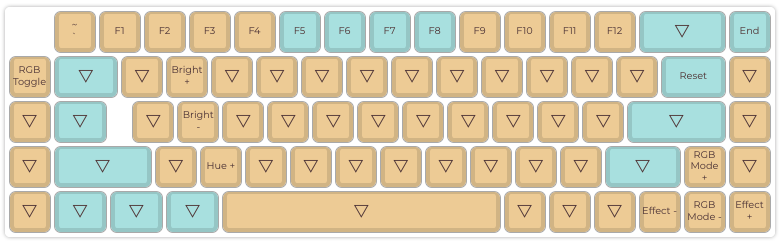
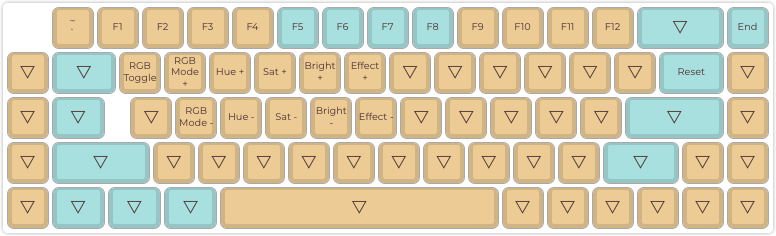
Update keymap

diff --git a/nibble/keymaps/oled_status/keymap.c b/nibble/keymaps/oled_status/keymap.c
@@ -35,11 +35,11 @@ const uint16_t PROGMEM keymaps[][MATRIX_ROWS][MATRIX_COLS] = {
         KC_F16, KC_LCTL, KC_LGUI, KC_LALT,                   KC_SPC,                    MO(_FN), KC_RALT, KC_RCTL, KC_LEFT,          KC_DOWN, KC_RGHT
     ),
     [_FN] = LAYOUT_ansi(
-                KC_GRV,   KC_F1,   KC_F2,   KC_F3,   KC_F4,   KC_F5,   KC_F6,   KC_F7,   KC_F8,   KC_F9,   KC_F10,  KC_F11,  KC_F12,   _______,  KC_END,
-        RGB_TOG, _______, RGB_VAI, _______, _______, _______, _______, _______, _______, _______, _______, _______, _______, _______,    RESET, _______,
-        _______, _______, RGB_VAD, _______, _______, _______, _______, _______, _______, _______, _______, _______, _______,           _______, _______,
-        _______, _______, RGB_HUI, _______, _______, _______, _______, _______, _______, _______, _______, _______, _______,           RGB_MOD, _______,
-        _______, _______, _______, _______,                   _______,                   _______, _______, _______, RGB_SAD,          RGB_RMOD, RGB_SAI
+                KC_GRV,   KC_F1,      KC_F2,   KC_F3,   KC_F4,   KC_F5,   KC_F6,   KC_F7,   KC_F8,   KC_F9,   KC_F10,  KC_F11, KC_F12, _______,  KC_END,
+        _______, _______, RGB_TOG,  RGB_MOD, RGB_HUI, RGB_SAI, RGB_VAI, RGB_SPI, _______, _______, _______, _______, _______, _______,   RESET, _______,
+        _______, _______, _______, RGB_RMOD, RGB_HUD, RGB_SAD, RGB_VAD, RGB_SPD, _______, _______, _______, _______, _______,          _______, _______,
+        _______, _______, _______,  _______, _______, _______, _______, _______, _______, _______, _______, _______, _______,          _______, _______,
+        _______, _______, _______,  _______,                   _______,                   _______, _______, _______, _______,          _______, _______
     ),
 };
 // clang-format on
